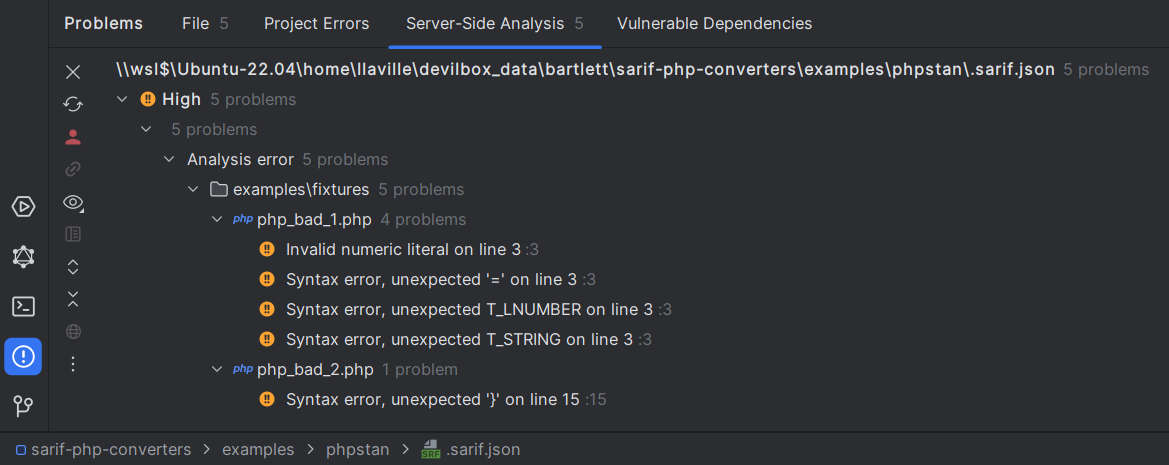
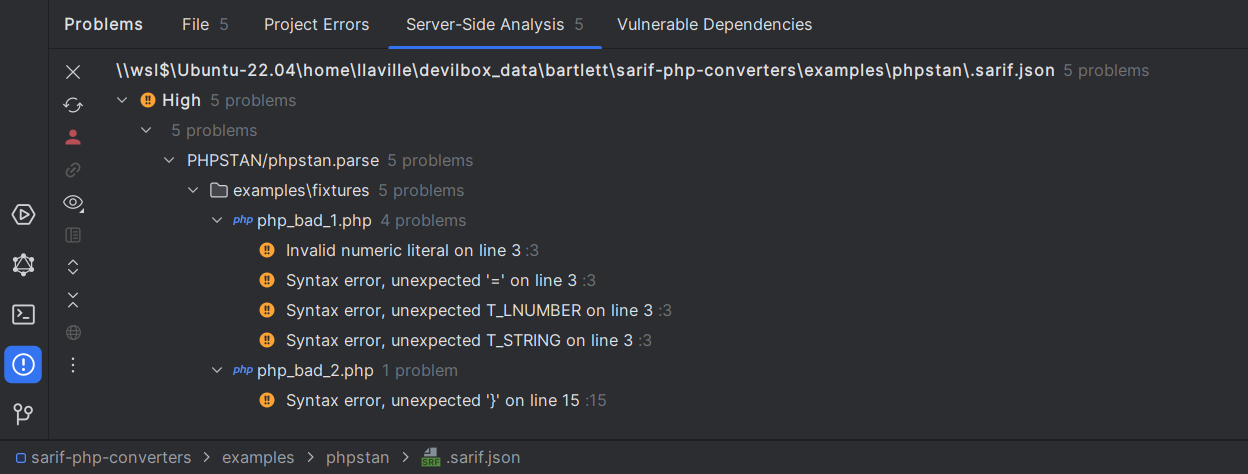
enhance PHPStan error/rule display with SARIF viewer and helpUri

diff --git a/src/Converter/Normalizer/PhpStanNormalizer.php b/src/Converter/Normalizer/PhpStanNormalizer.php
@@ -12,6 +12,7 @@ use PHPStan\Command\AnalysisResult;
 use ArrayObject;
 use function array_unique;
 use function in_array;
+use function sprintf;
 
 /**
  * @author Laurent Laville
@@ -19,6 +20,8 @@ use function in_array;
  */
 final class PhpStanNormalizer extends AbstractNormalizer
 {
+    public const URI_PATTERN = 'https://phpstan.org/error-identifiers/%s';
+
     public function normalize($data, string $format, array $context): ?ArrayObject
     {
         if (!in_array($format, $this->getSupportedFormats())) {
@@ -40,14 +43,22 @@ final class PhpStanNormalizer extends AbstractNormalizer
     {
         $files = [];
         $errors = [];
+        $rules = [];
 
         $analysisResult = $data;
-
-        $ruleId = $context['rulePrefix'] . '101';
 
         foreach ($analysisResult->getFileSpecificErrors() as $fileSpecificError) {
             $file = $fileSpecificError->getFile();
             $files[] = $file;
+
+            $ruleId = sprintf('%s/%s', $context['rulePrefix'], $fileSpecificError->getIdentifier());
+            $helpUri = sprintf(self::URI_PATTERN, $fileSpecificError->getIdentifier());
+
+            $rules[$ruleId] = [
+                'name' => $fileSpecificError->getIdentifier(),
+                'help' => 'https://phpstan.org/user-guide/ignoring-errors',
+                'helpUri' => $helpUri,
+            ];
 
             $attributes = [
                 'ReportingDescriptor.id' => $ruleId,
@@ -63,14 +74,7 @@ final class PhpStanNormalizer extends AbstractNormalizer
         return [
             'files' => array_unique($files),
             'errors' => $errors,
-            'rules' => [
-                $ruleId => [
-                    'shortDescription' => 'Analysis error',
-                    'fullDescription' => 'Errors detected during analysis of source files',
-                    'help' => 'https://phpstan.org/user-guide/command-line-usage',
-                    'helpUri' => 'https://phpstan.org/user-guide/getting-started',
-                ],
-            ],
+            'rules' => $rules,
         ];
     }
 }

diff --git a/docs/converter/phpstan.md b/docs/converter/phpstan.md
@@ -15,13 +15,14 @@
 4. [How to customize your converter](#how-to-customize-your-converter)
 5. [Learn more](#learn-more)
 6. [IDE Integration](#ide-integration)
+7. [Web SARIF viewer](#web-sarif-viewer)
 
 ![phpstan converter](../assets/images/converter-phpstan.graphviz.svg)
 
 ## Requirements
 
-* [PHPStan][phpstan] requires PHP version 7.2.0 or greater
-* This SARIF converter requires at least PHPStan version 1.9.0
+* [PHPStan][phpstan] requires PHP version 8.1.0 or greater
+* This SARIF converter requires at least PHPStan version 1.11.0
 
 ## Installation
 
@@ -110,6 +111,15 @@ The SARIF report file `[*].sarif.json` is automagically recognized and interpret
 
 ![PHPStorm integration](../assets/images/phpstorm-phpstan.png)
 
+## Web SARIF viewer
+
+With the [React based component][sarif-web-component], you are able to explore a sarif report file previously generated.
+
+For example:
+
+![sarif-web-phpstan](../assets/images/sarif-web-phpstan.png)
+
 [example-folder]: https://github.com/llaville/sarif-php-converters/blob/1.0/examples/phpstan/
 [json-encode]: https://www.php.net/manual/en/function.json-encode
 [phpstan]: https://github.com/phpstan/phpstan
+[sarif-web-component]: https://github.com/Microsoft/sarif-web-component
